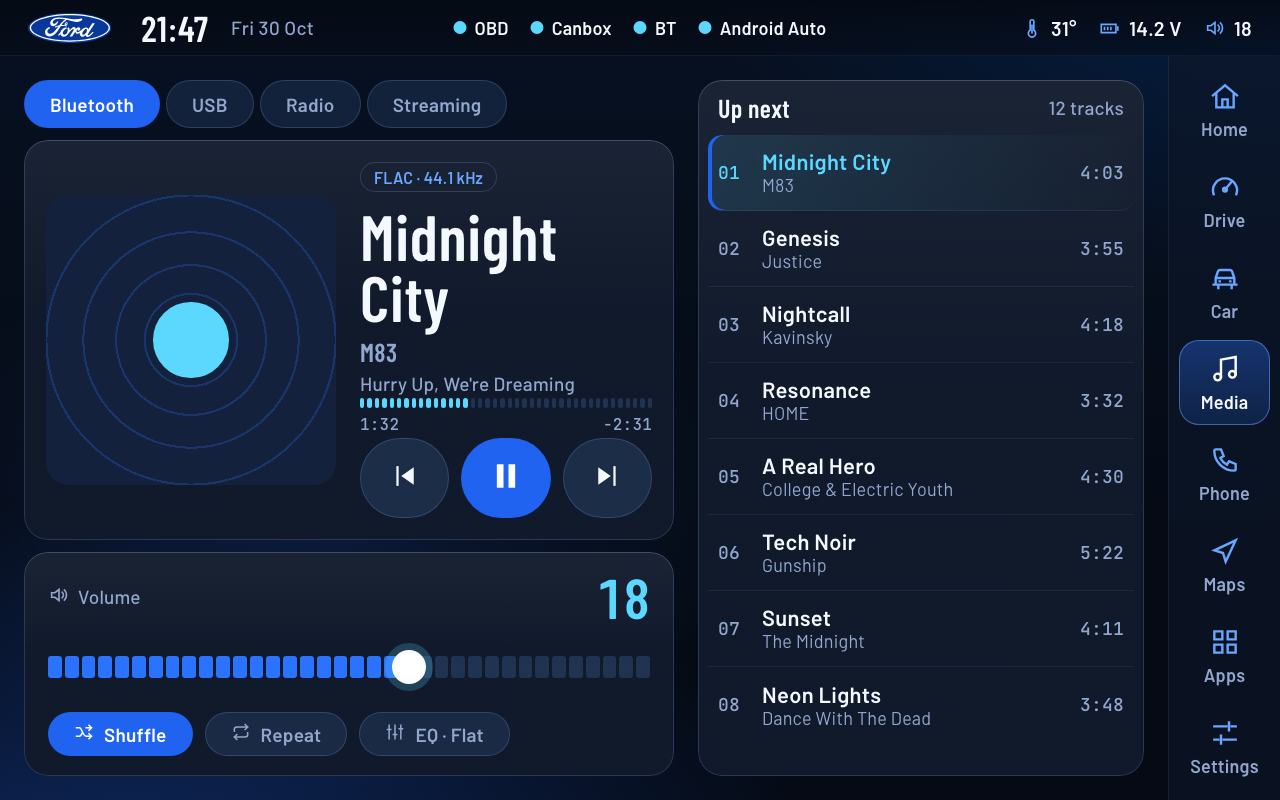
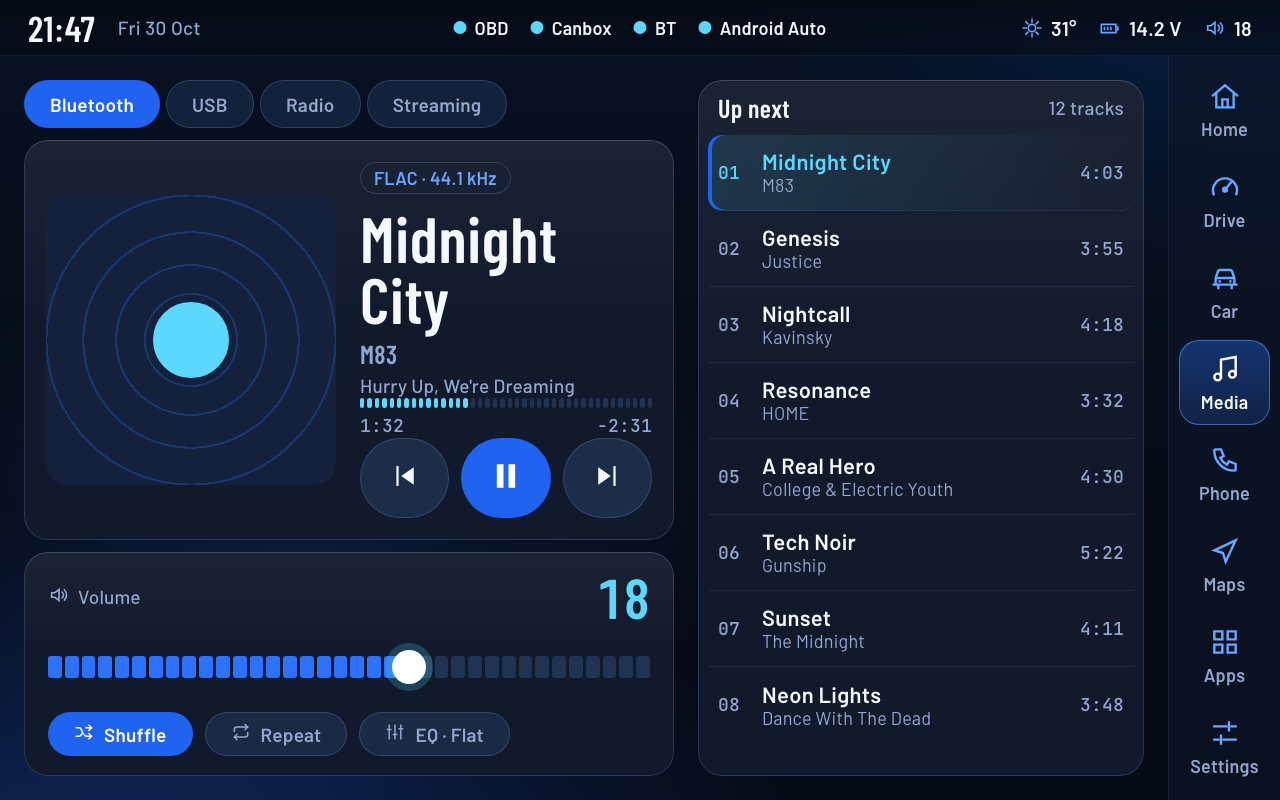
design: finish critique pass: status-bar mark removed (one Ford mark per screen), Battery tile -> Engine load, 18 px text floor, 56 px touch targets, Bluetooth chip link, probe for critiques; shots regenerated

diff --git a/docs/design/site/assets/ui.js b/docs/design/site/assets/ui.js
@@ -318,9 +318,9 @@
   function shell(fr) {
     var active = fr.dataset.active || '', qs = location.search;
     if (fr.dataset.shell !== '0') {
-      var sb = '<header class="sb"><div class="sbl">' + (UI.theme === 'ford' ? UI.logo(30, 'sb-logo') : '') + '<span class="clock">21:47</span><span class="date">' + (UI.theme === 'ford' ? 'Fri 30 Oct' : 'FRI 30 OCT') + '</span></div>' +
+      var sb = '<header class="sb"><div class="sbl"><span class="clock">21:47</span><span class="date">' + (UI.theme === 'ford' ? 'Fri 30 Oct' : 'FRI 30 OCT') + '</span></div>' +
         '<div class="sbc"><span class="link on">OBD</span><span class="link on">Canbox</span><span class="link on">BT</span><span class="link on">Android Auto</span></div>' +
-        '<div class="sbr"><span class="sbs">' + UI.icon('thermo', 22) + '31°</span><span class="sbs">' + UI.icon('batt', 22) + '14.2 V</span><span class="sbs">' + UI.icon('vol', 22) + '18</span></div></header>';
+        '<div class="sbr"><span class="sbs">' + UI.icon('sun', 22) + '31°</span><span class="sbs">' + UI.icon('batt', 22) + '14.2 V</span><span class="sbs">' + UI.icon('vol', 22) + '18</span></div></header>';
       fr.insertAdjacentHTML('afterbegin', sb);
     }
     if (fr.dataset.dock !== '0' && fr.dataset.shell !== '0') {
@@ -365,9 +365,22 @@
     var st = document.querySelector('.stage'); if (!st) return;
     document.querySelectorAll('.frame').forEach(shell);
     document.querySelectorAll('.main .card').forEach(function (c, i) { c.style.setProperty('--i', i); });
+    document.querySelectorAll('.chip, .btn, [onclick]').forEach(function (e) { if (e.closest('svg')) return; var p = getComputedStyle(e).position; if (e.offsetHeight && e.offsetHeight < 56 && (p === 'static' || p === 'relative')) e.classList.add('hit'); });
     hydrate(document); fit(); addEventListener('resize', fit);
     if (UI.onready) UI.onready();
     if (Q.has('qa')) setTimeout(UI.qa, 50);
+    if (Q.has('probe')) setTimeout(function () {                       /* measurements for design critiques: small touch targets and small text */
+      var o = [], seen = {};
+      document.querySelectorAll('a, button, [onclick], .btn, .chip, .tog, .sl').forEach(function (e) {
+        var r = e.getBoundingClientRect(); if (!r.width || e.closest('svg, .scaled')) return;
+        if (e.classList.contains('hit')) return;
+        if (Math.min(r.width, r.height) < 56) o.push('TARGET ' + Math.round(r.width) + 'x' + Math.round(r.height) + ' ' + (e.className && e.className.baseVal === undefined ? e.className : '') + ' "' + (e.textContent || '').trim().slice(0, 24) + '"');
+      });
+      var w = document.createTreeWalker(document.body, NodeFilter.SHOW_TEXT);
+      while (w.nextNode()) { var n = w.currentNode, t = n.textContent.trim(); if (!t || n.parentElement.closest('svg, script, style, pre, figcaption')) continue;
+        var f = parseFloat(getComputedStyle(n.parentElement).fontSize); if (f < 18) { var k = Math.round(f) + 'px ' + t.slice(0, 30); if (!seen[k]) { seen[k] = 1; o.push('TEXT ' + k); } } }
+      var pre = document.createElement('pre'); pre.id = 'probe-out'; pre.textContent = o.length ? o.join('\n') : 'PROBE-CLEAN'; document.body.appendChild(pre);
+    }, 120);
     document.documentElement.setAttribute('data-ready', '1');
   });
 })();

diff --git a/docs/design/site/assets/ui.css b/docs/design/site/assets/ui.css
@@ -66,7 +66,8 @@ i[data-i]{display:inline-flex}
 .h1{font:800 54px/1 var(--f-display);letter-spacing:.03em;text-transform:uppercase}
 .h2{font:800 34px/1 var(--f-display);letter-spacing:.05em;text-transform:uppercase}
 .h3{font:700 26px/1.1 var(--f-display);letter-spacing:.06em;text-transform:uppercase}
-.mono{font:500 16px var(--f-mono);color:var(--dim)}
+.mono{font:500 18px var(--f-mono);color:var(--dim)}
+.hit{position:relative}.hit::after{content:"";position:absolute;inset:calc((56px - 100%) / -2) -12px}   /* grows the touch area to 56 px without changing the look */
 .lime{color:var(--lime)} .cobalt{color:var(--cobalt-lt)} .dim{color:var(--dim)} .white{color:var(--text)}
 .n-xxl{font-size:200px} .n-xl{font-size:120px} .n-l{font-size:72px} .n-m{font-size:56px} .n-s{font-size:40px}
 .tnum{font-variant-numeric:tabular-nums}
@@ -108,7 +109,7 @@ i[data-i]{display:inline-flex}
 .chip.on{background:var(--accent);color:var(--on-accent);box-shadow:none}
 .chip.c{background:var(--c40);color:var(--text)}
 .tabs{display:flex;gap:6px}
-.badge{display:inline-flex;align-items:center;gap:8px;height:30px;padding:0 12px;font:700 16px var(--f-ui);letter-spacing:.1em;text-transform:uppercase;
+.badge{display:inline-flex;align-items:center;gap:8px;height:32px;padding:0 12px;font:700 18px var(--f-ui);letter-spacing:.1em;text-transform:uppercase;
   color:var(--cobalt-lt);box-shadow:inset 0 0 0 1px var(--hair)}
 .badge.lime{color:var(--lime);box-shadow:inset 0 0 0 1px rgba(var(--lime-rgb),.5)}
 .badge.fill{background:var(--accent);color:var(--on-accent);box-shadow:none}
@@ -140,12 +141,12 @@ i[data-i]{display:inline-flex}
 .tbl{width:100%;border-collapse:collapse}
 .tbl th{font:500 18px var(--f-ui);letter-spacing:.12em;text-transform:uppercase;color:var(--dim);text-align:left;padding:8px 10px;border-bottom:1px solid var(--hair)}
 .tbl td{padding:0 10px;height:46px;border-bottom:1px solid var(--hair-soft);font:500 20px var(--f-ui)}
-.tbl td.m{font:500 17px var(--f-mono);color:var(--dim)}
+.tbl td.m{font:500 18px var(--f-mono);color:var(--dim)}
 .tbl td.v{font:800 28px var(--f-display);letter-spacing:.02em}
 
 .key{display:flex;flex-direction:column;align-items:center;justify-content:center;height:84px;background:var(--c25);box-shadow:inset 0 0 0 1px var(--hair);
   clip-path:polygon(0 0,calc(100% - 10px) 0,100% 10px,100% 100%,0 100%)}
-.key b{font:800 44px/1 var(--f-display)} .key small{font:500 15px var(--f-ui);letter-spacing:.2em;color:var(--dim)}
+.key b{font:800 44px/1 var(--f-display)} .key small{font:500 18px var(--f-ui);letter-spacing:.1em;color:var(--dim)}
 
 .warn{display:flex;align-items:center;gap:18px;padding:14px 26px;background:var(--warn);color:var(--on-warn);font:800 28px var(--f-display);
   letter-spacing:.06em;text-transform:uppercase;animation:wp 1s steps(2) infinite}

diff --git a/docs/design/site/screens/home.html b/docs/design/site/screens/home.html
@@ -20,7 +20,7 @@
     <div class="card row g24" style="height:310px;padding:20px" data-od-id="now-playing">
       <div class="art" style="width:270px;height:270px;flex:none"></div>
       <div class="col grow jb">
-        <div class="row jb c"><span class="chip c" style="height:40px">Bluetooth audio</span><a href="media.html" class="lbl white">Queue ›</a></div>
+        <div class="row jb c"><a href="media.html" class="chip c hit" style="height:40px">Bluetooth audio</a><a href="media.html" class="lbl white hit">Queue ›</a></div>
         <div><div class="np-title">Midnight City</div><div class="h3 dim np-sub" style="margin-top:8px">M83 · Hurry Up, We're Dreaming</div></div>
         <div>
           <div class="seg thin sk" data-n="64" data-v=".38" data-c="l"></div>
@@ -69,7 +69,7 @@
     </div>
     <div class="row g12" style="height:110px">
       <div class="card grow col jb tight" data-od-id="vital-coolant"><span class="lbl row c g8"><i data-i="thermo" data-s="22"></i>Coolant</span><span class="num n-m"><span id="cool">92</span><span class="unit">°C</span></span></div>
-      <div class="card grow col jb tight" data-od-id="vital-volt"><span class="lbl row c g8"><i data-i="batt" data-s="22"></i>Battery</span><span class="num n-m">14.2<span class="unit">V</span></span></div>
+      <div class="card grow col jb tight" data-od-id="vital-load"><span class="lbl row c g8"><i data-i="pulse" data-s="22"></i>Engine load</span><span class="num n-m"><span id="load">38</span><span class="unit">%</span></span></div>
     </div>
   </section>
 </main>
@@ -84,7 +84,7 @@ UI.onready = function () {
     UI.setSeg($('rpmbar'), s.rpm / 7000);
     $('boost').textContent = (s.boost >= 0 ? '+' : '') + s.boost.toFixed(2);
     UI.setSeg($('boostbar'), (s.boost + 1) / 2.5);
-    $('cool').textContent = Math.round(s.coolant); $('fuel').textContent = Math.round(s.fuel);
+    $('cool').textContent = Math.round(s.coolant); $('load').textContent = Math.round(s.load); $('fuel').textContent = Math.round(s.fuel);
   });
 };
 </script></body></html>

diff --git a/docs/design/site/screens/car.html b/docs/design/site/screens/car.html
@@ -8,7 +8,7 @@
 .row-s .k{display:flex;align-items:center;gap:12px} .row-s .k .ic{color:var(--cobalt-lt)}
 .st{font:700 18px var(--f-ui);letter-spacing:.1em;text-transform:uppercase;color:var(--text)}
 .st.off{color:var(--dim)} .st.alert{color:var(--lime)}
-.prov{font:500 16px var(--f-mono);color:var(--dim)}
+.prov{font:500 18px var(--f-mono);color:var(--dim)}
 .vent{width:64px;height:56px;display:grid;place-items:center;color:var(--dim);background:var(--c12);box-shadow:inset 0 0 0 1px var(--hair)}
 .vent.on{background:var(--accent);color:var(--on-accent);box-shadow:none}
 </style></head>
@@ -24,7 +24,7 @@
       <div class="row-s"><span class="k"><i data-i="key" data-s="26"></i>Ignition</span><span class="st">On</span></div>
       <div class="row-s"><span class="k"><i data-i="steer" data-s="26"></i>Steering</span><span class="st off">−4° left</span></div>
     </div>
-    <div class="card col tight" data-od-id="legend" style="height:104px;justify-content:center"><span class="lbl">Data source</span><span class="prov" style="margin-top:6px;font-size:17px;line-height:1.3">◇ Depends on the unit's Canbox dialect</span></div>
+    <div class="card col tight" data-od-id="legend" style="height:104px;justify-content:center"><span class="lbl">Data source</span><span class="prov" style="margin-top:6px;font-size:18px;line-height:1.3">◇ Depends on the unit's Canbox dialect</span></div>
   </section>
 
   <section class="grow col g8" data-od-id="car-top">

diff --git a/docs/design/site/screens/sound.html b/docs/design/site/screens/sound.html
@@ -16,7 +16,7 @@
     <div class="row jb c" style="height:44px"><span class="h2">Sound</span><div class="tabs"><span class="chip">Flat</span><span class="chip">Bass</span><span class="chip on">Punch</span><span class="chip">Vocal</span></div></div>
     <div class="card col grow" data-od-id="equalizer">
       <div class="row jb c"><span class="lbl">Equalizer · 8 band</span><span class="badge lime">Punch · edited</span></div>
-      <div class="row grow" style="margin-top:14px;gap:6px"><div class="col jb" style="padding:34px 8px 34px 0;font:500 16px var(--f-mono);color:var(--dim);text-align:right"><span>+12</span><span>0 dB</span><span>−12</span></div><div id="eq" class="row grow" style="align-items:stretch;gap:6px"></div></div>
+      <div class="row grow" style="margin-top:14px;gap:6px"><div class="col jb" style="padding:34px 8px 34px 0;font:500 18px var(--f-mono);color:var(--dim);text-align:right"><span>+12</span><span>0 dB</span><span>−12</span></div><div id="eq" class="row grow" style="align-items:stretch;gap:6px"></div></div>
     </div>
     <div class="card col g12" style="height:150px" data-od-id="volume-block">
       <div class="row jb c"><span class="lbl row c g8"><i data-i="vol" data-s="22"></i>Volume</span><span class="num n-m lime">18</span></div>

diff --git a/docs/design/site/design-system.html b/docs/design/site/design-system.html
@@ -28,7 +28,7 @@
   <div class="cap">Ford theme rules</div>
   <div class="three">
     <div class="pnl"><h3>Blue is structure</h3><p>Ford blue draws rings, bars and borders. Sky blue carries icons. Neither is used for small text.</p></div>
-    <div class="pnl"><h3>Cyan is live</h3><p>Only values that are changing right now (boost, peak, tuned station) use ice-cyan. The speed is white: the primary reading is never coloured.</p></div>
+    <div class="pnl"><h3>Cyan is live</h3><p>Ice-cyan marks values that are live right now (boost, peak, tuned station) and links that are up (connected dots). Nothing else. The speed is white: the primary reading is never coloured.</p></div>
     <div class="pnl"><h3>Amber is the only alarm</h3><p>Redline, door open, low battery and overheating use amber blocks with dark text. No red anywhere, and no colour is ever the only signal.</p></div>
   </div>
   <div class="cap">The Blue Oval</div>

diff --git a/docs/design/site/screens/drive.html b/docs/design/site/screens/drive.html
@@ -6,7 +6,7 @@
 .tile{height:150px;display:flex;flex-direction:column;justify-content:space-between}
 .tile .v{font:800 64px/.9 var(--f-display)}
 .scale{position:relative;height:22px;margin-top:6px}
-.scale span{position:absolute;transform:translateX(-50%);font:500 16px var(--f-mono);color:var(--dim)}
+.scale span{position:absolute;transform:translateX(-50%);font:500 18px var(--f-mono);color:var(--dim)}
 .cell{flex:1;padding:0 22px;border-right:1px solid var(--hair-soft);display:flex;flex-direction:column;justify-content:center;gap:6px}
 .cell:last-child{border:0}
 .cell .v{font:800 40px/.9 var(--f-display)}

diff --git a/docs/design/site/screens/drive-cruise.html b/docs/design/site/screens/drive-cruise.html
@@ -6,7 +6,7 @@
 .side{display:flex;flex-direction:column;justify-content:space-between}
 .side .v{font:800 72px/.9 var(--f-display)}
 .ribbon-lbl{position:relative;height:22px;margin-top:6px}
-.ribbon-lbl span{position:absolute;transform:translateX(-50%);font:500 16px var(--f-mono);color:var(--dim)}
+.ribbon-lbl span{position:absolute;transform:translateX(-50%);font:500 18px var(--f-mono);color:var(--dim)}
 </style></head>
 <body><div class="stage"><div class="frame" data-active="drive">
 <main class="main" data-od-id="drive-cruise">
